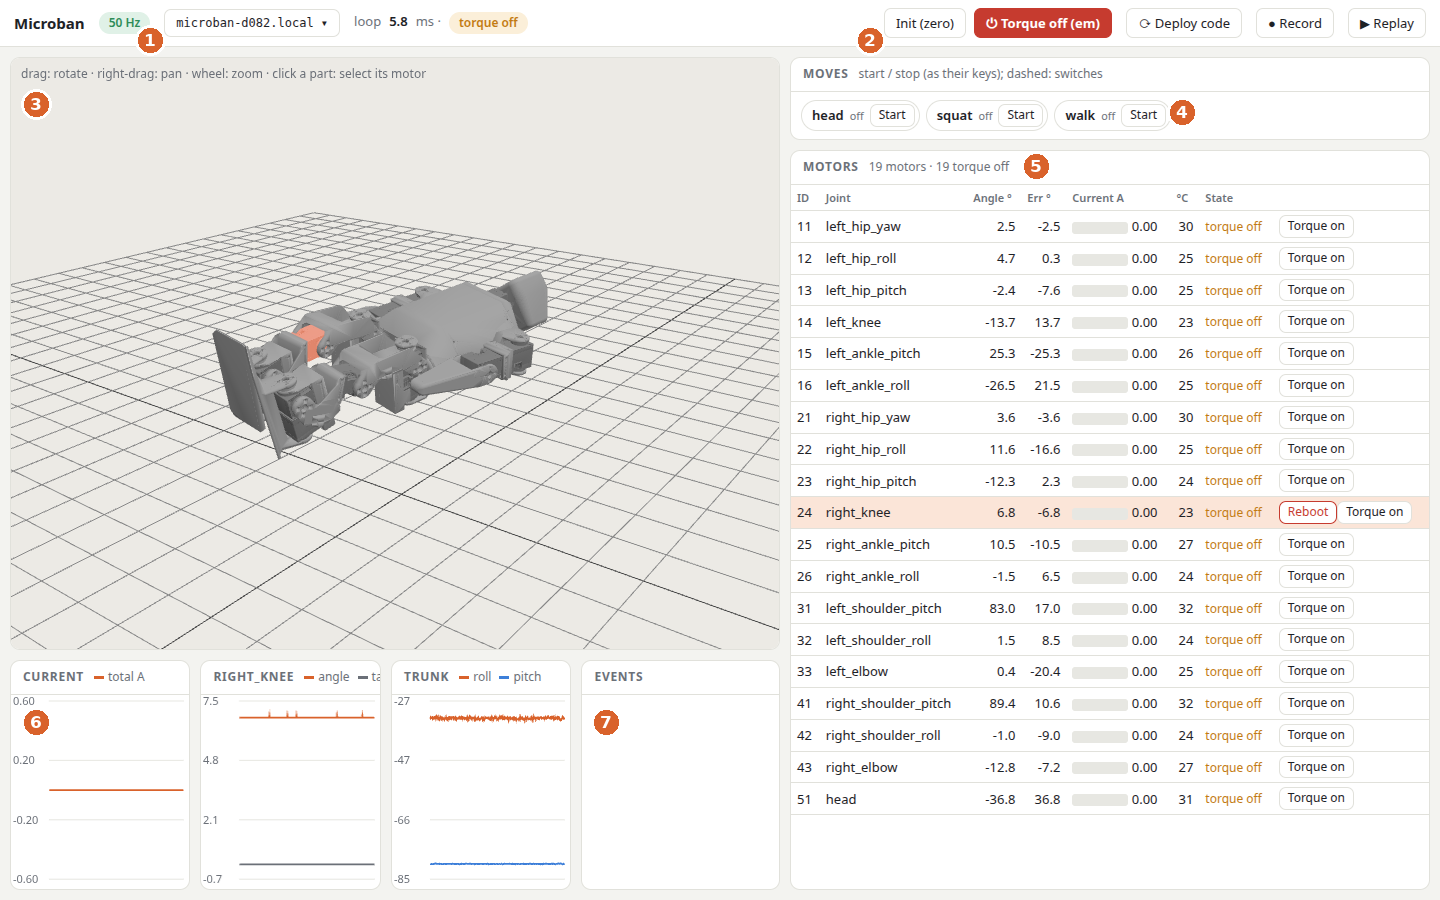
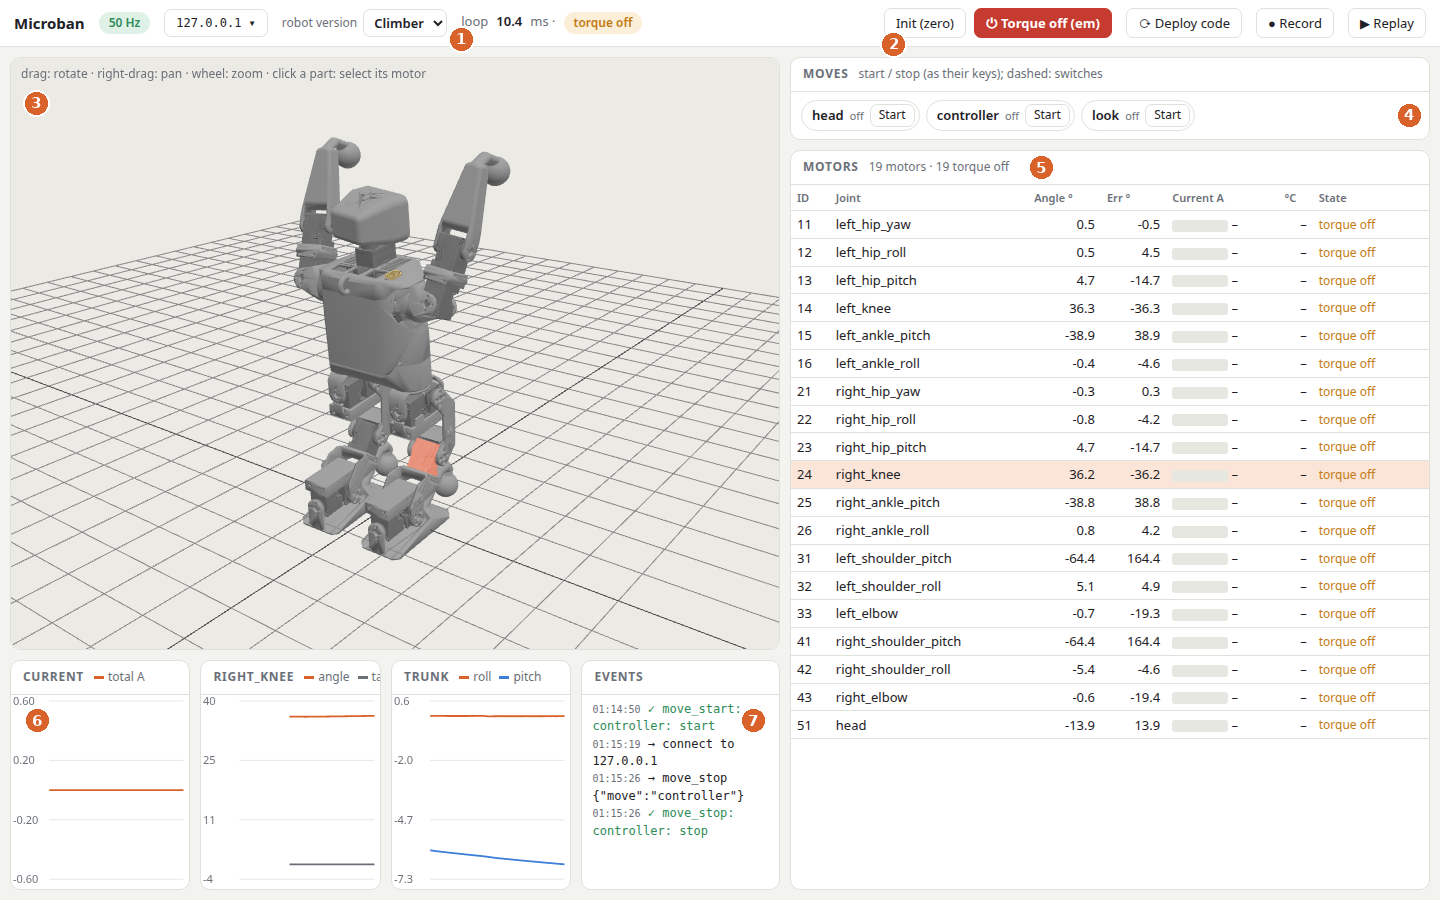
docs up to date: the robot's version (header menu, SD image's first step), the moves per version, look and the walk's dashboard controls, Controller or move, deployment.md for v1 only; dashboard: HOST with or without its user, CLIMB gone
The overview figure is taken on the simulated wall (make sim WALL=N2), with the robot version menu.

Claude-Session: https://claude.ai/code/session_018d9UckeD9X4H8Nj272GbiR

diff --git a/docs/usage.md b/docs/usage.md
@@ -16,8 +16,8 @@ service started at boot, driven from the live dashboard ([dashboard.md](dashboar
 
 Run these from the repository root on your computer. They target the host `microban`
 by default (an SSH alias, see the [Deployment Guide](deployment.md)). A robot flashed from the SD card image
-([sd_image.md](sd_image.md)) is `HOST=radxa@microban-XXXX.local`, or an SSH alias with `User radxa`. `make dashboard`
-takes the bare name instead (`HOST=microban-XXXX.local`): the page adds the user itself (`ROBOT_USER`, `radxa`).
+([sd_image.md](sd_image.md)) is `HOST=radxa@microban-XXXX.local`, or an SSH alias with `User radxa` (`make dashboard`
+takes it too, or the bare name).
 
 | Command | What it does |
 | :--- | :--- |
@@ -69,14 +69,16 @@ Using a gamepad allows to drive the robot through two different modes: with a te
 ## Moves
 
 Moves are toggled independently (keys, gamepad, or the dashboard's Moves list: [dashboard.md](dashboard.md)) and run
-on top of the neutral pose:
+on top of the neutral pose. Each is made for a version of the robot, classic or climber (the robot knows its own and
+runs only those: [moves.md](moves.md)):
 
-- **Walk** (`v` / gamepad **A**) — a reinforcement-learning policy. Once active, the
+- **Walk** (`v` / gamepad **A**, classic) — a reinforcement-learning policy. Once active, the
   velocity command drives it: `vx` (forward/back), `vy` (lateral), `vtheta` (turn),
-  set from the arrow keys or the gamepad sticks.
-- **Head** (`h`) — oscillates the head.
-- **Squat** (`s`) — squat motion computed with inverse kinematics.
-- **Controller** (`c` / gamepad **Y**) — your own controller file (`make run CONTROLLER=...`,
+  set from the arrow keys or the gamepad sticks; in the dashboard, its arrows and its speed slider.
+- **Head** (`h`, both) — oscillates the head.
+- **Look** (both) — turns the head from the dashboard: its slider, or the ← → keys.
+- **Squat** (`s`, classic) — squat motion computed with inverse kinematics.
+- **Controller** (`c` / gamepad **Y**, climber) — your own controller file (`make run CONTROLLER=...`,
   [controller.md](controller.md)).
 
 ### Velocity command
@@ -95,30 +97,10 @@ keyboard, gamepad and sim. Defaults (in [constants.py](../src/constants.py)):
 
 ## Developing: adding your own moves
 
-The full guide, with an example: [moves.md](moves.md).
-
-Each behavior is a subclass of `Move` ([src/moves/move.py](../src/moves/move.py)) with
-a simple lifecycle driven by the scheduler:
-
-- `preload()` — optional, called once before the loop starts (load heavy resources).
-- `on_start(obs, command)` — called each tick while *starting*; set
-  `self.state = MoveState.ACTIVE` when ready (e.g. after ramping in).
-- `step(obs, command)` — called each tick while *active*; write your target joint
-  angles into `command.target_angles`.
-- `on_stop(obs, command)` — called each tick while *stopping*; set
-  `self.state = MoveState.INACTIVE` when done (e.g. after ramping back to neutral).
-
-To add a move:
-
-1. Create a new file in [src/moves/](../src/moves/) with a class subclassing `Move`.
-   Use [rotate_head.py](../src/moves/rotate_head.py) (a simple oscillation) or
-   [squat.py](../src/moves/squat.py) (inverse kinematics with placo) as a template.
-2. Nothing to register: every `Move` class of `src/moves/` is found when the program starts ([moves.md](moves.md)).
-   A key in `MOVE_KEYS` (keyboard) or a button in `GAMEPAD_BUTTON_MOVES` (gamepad), in
-   [src/main.py](../src/main.py), is optional.
-3. In `step()`, read the robot state from `obs.robot_state` (motor positions and
-   velocities, IMU gyro, projected gravity) and write your targets into
-   `command.target_angles`.
+A move is a class in [src/moves/](../src/moves/), found by itself when the program starts: the full guide, with an
+example, is [moves.md](moves.md) (its life, the versions it is for, the dashboard's variables, sliders and keys). For
+the climbing robot, your own controller may be the better fit: [controller.md](controller.md#controller-or-move).
+Try it in simulation first: [simulation.md](simulation.md).
 
 ### Training your own walk (or other RL) policies
 

diff --git a/docs/dashboard.md b/docs/dashboard.md
@@ -3,11 +3,11 @@
 A page on your PC that shows the robot live, about 50 times a second: its 3D pose, every motor, the trunk orientation,
 plots and messages. It also starts and stops the moves, deploys your code, and records and replays a run.
 
-![The dashboard, on the real robot lying on its back with the torque off; the right knee is selected](images/dashboard/overview.png)
+![The dashboard, on the simulated robot hanging on the wall (make sim WALL=N2) with its Controller running; the right knee is selected](images/dashboard/overview.png)
 
 | | What | |
 | :---: | :--- | :--- |
-| 1 | **Link and robot** | link rate (green: data arrives), the robot shown (click to change it), the loop time, torque on / off |
+| 1 | **Link and robot** | link rate (green: data arrives), the robot shown (click to change it), its version (Classic / Climber), the loop time, torque on / off |
 | 2 | **Whole-robot buttons** | **Init (zero)**, **⏻ Torque off (em)**, **⟳ Deploy code**, **● Record**, **▶ Replay** |
 | 3 | **3D view** | the robot as it is (drag: rotate, right-drag: pan, wheel: zoom); click a part to select its motor |
 | 4 | **Moves** | every move of the robot, with Start / Stop and its state (off, starting, on, stopping); the moves' sliders and keyboard zone |
@@ -29,8 +29,8 @@ make dashboard                                    # opens http://127.0.0.1:8780 
 make dashboard HOST=microban-1a2b.local           # straight to that robot
 ```
 
-`HOST` is the robot's bare host name or IP (no `user@`); without it, the page opens on its robot picker. `CLIMB=1`
-shows the climbing version first (see below). Close the page any time: the robot does not depend on it.
+`HOST` is the robot's host name or IP (`radxa@...` as for `make deploy` works too: the page takes the host); without
+it, the page opens on its robot picker. Close the page any time: the robot does not depend on it.
 
 | Commands of the robot service | |
 | :--- | :--- |

diff --git a/src/humanoid_dashboard/README.md b/src/humanoid_dashboard/README.md
@@ -53,7 +53,10 @@ to its zero, confirmed). With the robot's moves listed in `meta.moves`: `move_st
 start is confirmed), `move_option {move, option, value}` (the ⚙ editor) and `save_options`; a move's live controls
 (`meta.moves[i].sliders` {name: [min, max, start]}, `keys` a text), unanswered: `slider {move, slider, value}` while
 dragged (the field `sliders`, labels `move.slider`, gives the robot's values) and `keys {held: [...]}` at each key and
-every 0.2 s while keys are held in the keyboard zone. The **⟳ Deploy code**
+every 0.2 s while keys are held in the keyboard zone. A robot with several versions says its own (`meta.variant`,
+among `meta.variants`; each move's `variants` and `available`): the page shows the model of that name (`--model
+NAME=...`), lists the moves available, and `variant {variant}` (its header menu, after a confirmation) changes it on the
+robot. The **⟳ Deploy code**
 button runs a command on the PC (`--deploy`), not on the robot. The robot answers each with `ack` (shown in Events) and decides what is safe; it lists the
 ones it accepts in `meta.commands`, and the page shows only those.
 

diff --git a/README.md b/README.md
@@ -75,7 +75,8 @@ To build your own Microban, you will need to follow these steps:
 
 5. **Drive it:** See the [Usage Guide](docs/usage.md) to run the robot, control it with the keyboard or a gamepad, and learn how to add your own moves.
 
-6. **Go further:** the [live dashboard](docs/dashboard.md) (motors, IMU, 3D, recordings, deploy), [writing your own
+6. **Go further:** the [live dashboard](docs/dashboard.md) (motors, IMU, 3D, the moves with their sliders and keys,
+   the robot's version, recordings, deploy), [writing your own
    moves](docs/moves.md), [the simulation](docs/simulation.md) (on the floor, or on the hackathon's climbing wall),
    [your own controller](docs/controller.md) (the same file as in Rhoban's robot simulator), the
    [motor setup tools](docs/motor_setup.md) and the [robot model](docs/model.md).

diff --git a/docs/sd_image.md b/docs/sd_image.md
@@ -14,6 +14,9 @@ ready), and the robot service (the control loop starts at boot, torque off until
 2. Put it in the robot and power it on. At its first boot (about 1 min) the robot grows its partition to the whole
    card and takes its own identity: machine-id, SSH keys, and the name `microban-XXXX`, XXXX being the end of its wifi
    MAC address. Two robots never share a name or a DHCP address.
+3. Tell it its version once: in the dashboard (`make dashboard`), the header's **robot version** menu, **Climber** for
+   a robot with the climbing forearms and feet (a new robot is a Classic). The robot keeps it, and runs only the moves
+   made for it ([moves.md](moves.md)).
 
 ## Reach it with an Ethernet cable
 

diff --git a/docs/deployment.md b/docs/deployment.md
@@ -1,5 +1,9 @@
 # Software Installation & Deployment
 
+> [!NOTE]
+> This guide is for the Raspberry Pi version (v1). A Radxa robot (v2) is flashed with its own SD card image:
+> [sd_image.md](sd_image.md).
+
 This guide takes you from the pre-built Microban SD-card image to a robot you can drive
 from your computer. The image already contains the operating system and the Microban
 code; you will flash it, connect to the robot over the network, and run it. For
